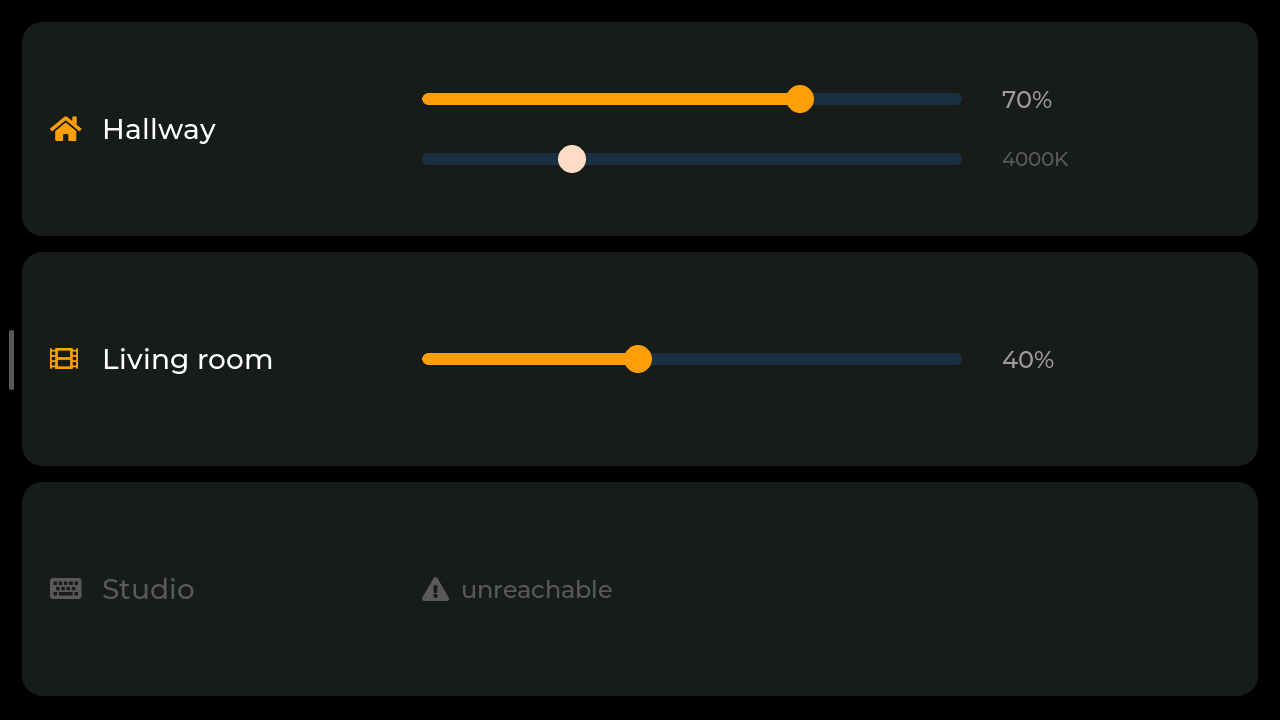
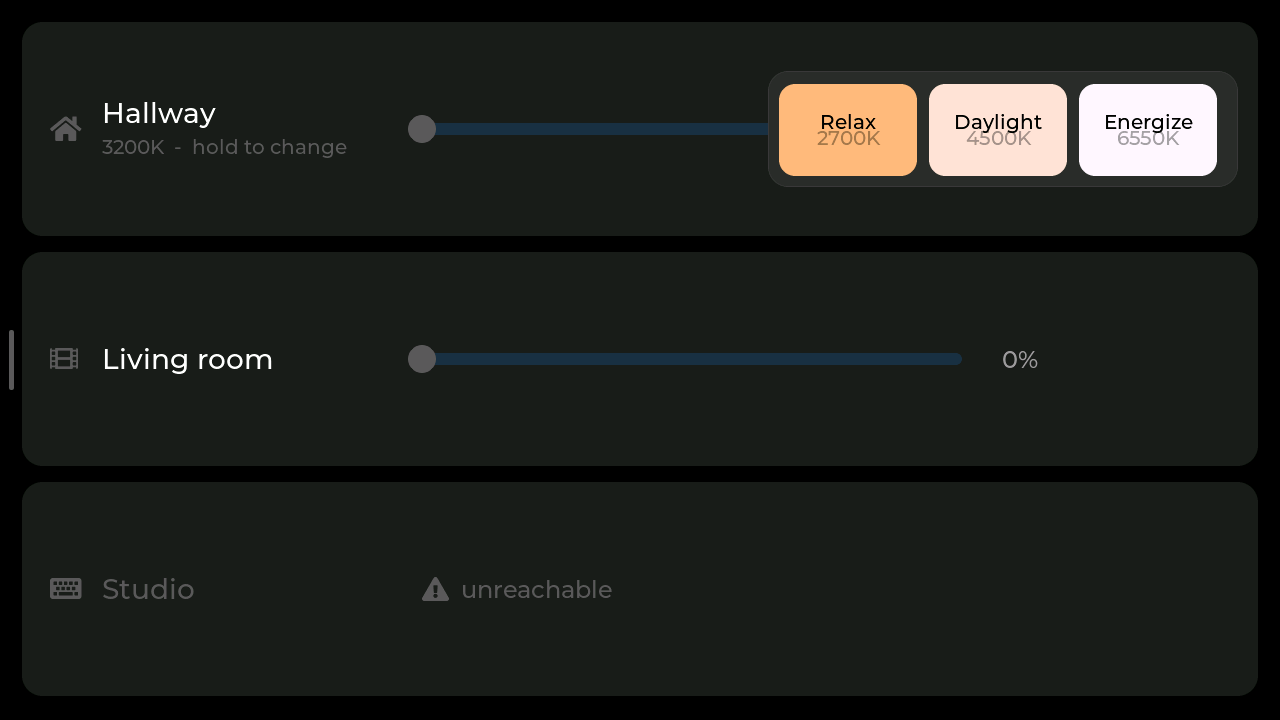
Round Kelvin to 100K so the row hint agrees with the preset buttons
Claude-Session: https://claude.ai/code/session_01Ujji3M8UcKP6EpZkQfm6xy

diff --git a/src/ui.c b/src/ui.c
@@ -1568,12 +1568,12 @@ static void room_sld_save_cb(lv_event_t *e)
 }
 
 /* Kelvin is what the number on a bulb box says; mireks are the API's unit.
- * Rounded to 50K because the slider is 347 steps wide and nobody adjusts a
- * lamp to 2843K. */
+ * Rounded to 100K: nobody adjusts a lamp to 2843K, and at 50K the cool end
+ * printed 6550 next to a preset button that says 6500. */
 static int mirek_kelvin(int mirek)
 {
     if (mirek < MIREK_MIN) mirek = MIREK_MIN;
-    return ((1000000 / mirek) + 25) / 50 * 50;
+    return ((1000000 / mirek) + 50) / 100 * 100;
 }
 
 static void build_lights(lv_obj_t *s)

diff --git a/README.md b/README.md
@@ -32,14 +32,16 @@ straight to the framebuffer - no X, no Wayland, no browser.
   listed but deliberately not marked on the grid: it happens most days and
   would colour in every cell.
 - **Lights** - one row per Philips Hue room. Tap anywhere on the row to
-  toggle it; the top slider dims and the lower one sets white balance,
-  with the knob painted the temperature it is about to apply. Rooms whose
-  bulbs are fixed-white show only the dimmer. There is no on/off switch on
-  purpose: the row itself is the target, which is a far easier thing to
-  hit standing at a wall panel. It follows the bridge, so a lamp switched
-  from a phone or a wall switch shows up here within a second, and a room
-  whose bulbs have dropped off the Zigbee mesh says *unreachable* and
-  disables its controls instead of accepting taps that do nothing.
+  toggle it, drag the slider to dim, and **hold** a row with tunable-white
+  bulbs to pick between three whites - Relax 2700K, Daylight 4500K and
+  Energize 6500K, each swatch painted the colour it sets. Three presets
+  rather than a slider: a 347-step range is a lot of choice for something
+  people want in about three states. There is no on/off switch on purpose,
+  the row itself is the target - far easier to hit standing at a wall
+  panel. It follows the bridge, so a lamp switched from a phone or a wall
+  switch shows up here within a second, and a room whose bulbs have
+  dropped off the Zigbee mesh says *unreachable* and disables its controls
+  instead of accepting taps that do nothing.
 - **Settings** - backlight, night dim, which weekdays are medicine days, a
   reminder toggle, and buttons to export or reset the log.
 
